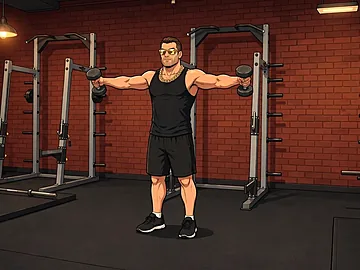
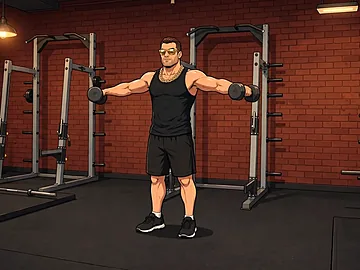
media: махи в стороны — гантели во втором кадре горизонтально, ревизия 4
Во втором кадре гантели стояли вертикально, как в молотковом хвате; в махах
ладони смотрят вниз и гантель лежит параллельно полу. Новое имя — кэш телефонов.

Claude-Session: https://claude.ai/code/session_01CrJS6GLPFyFnKE8scSAd8g

diff --git a/exercise_media.py b/exercise_media.py
@@ -363,7 +363,7 @@ FRAME_REVISION: dict[str, int] = {
     "dumbbell_bench_press": 3,
     "wide_grip_lat_pulldown": 3,
     "leg_press": 3,
-    "side_lateral_raise": 3,
+    "side_lateral_raise": 4,
     "barbell_curl": 3,
     "triceps_pushdown": 3,
     "plank": 3,
